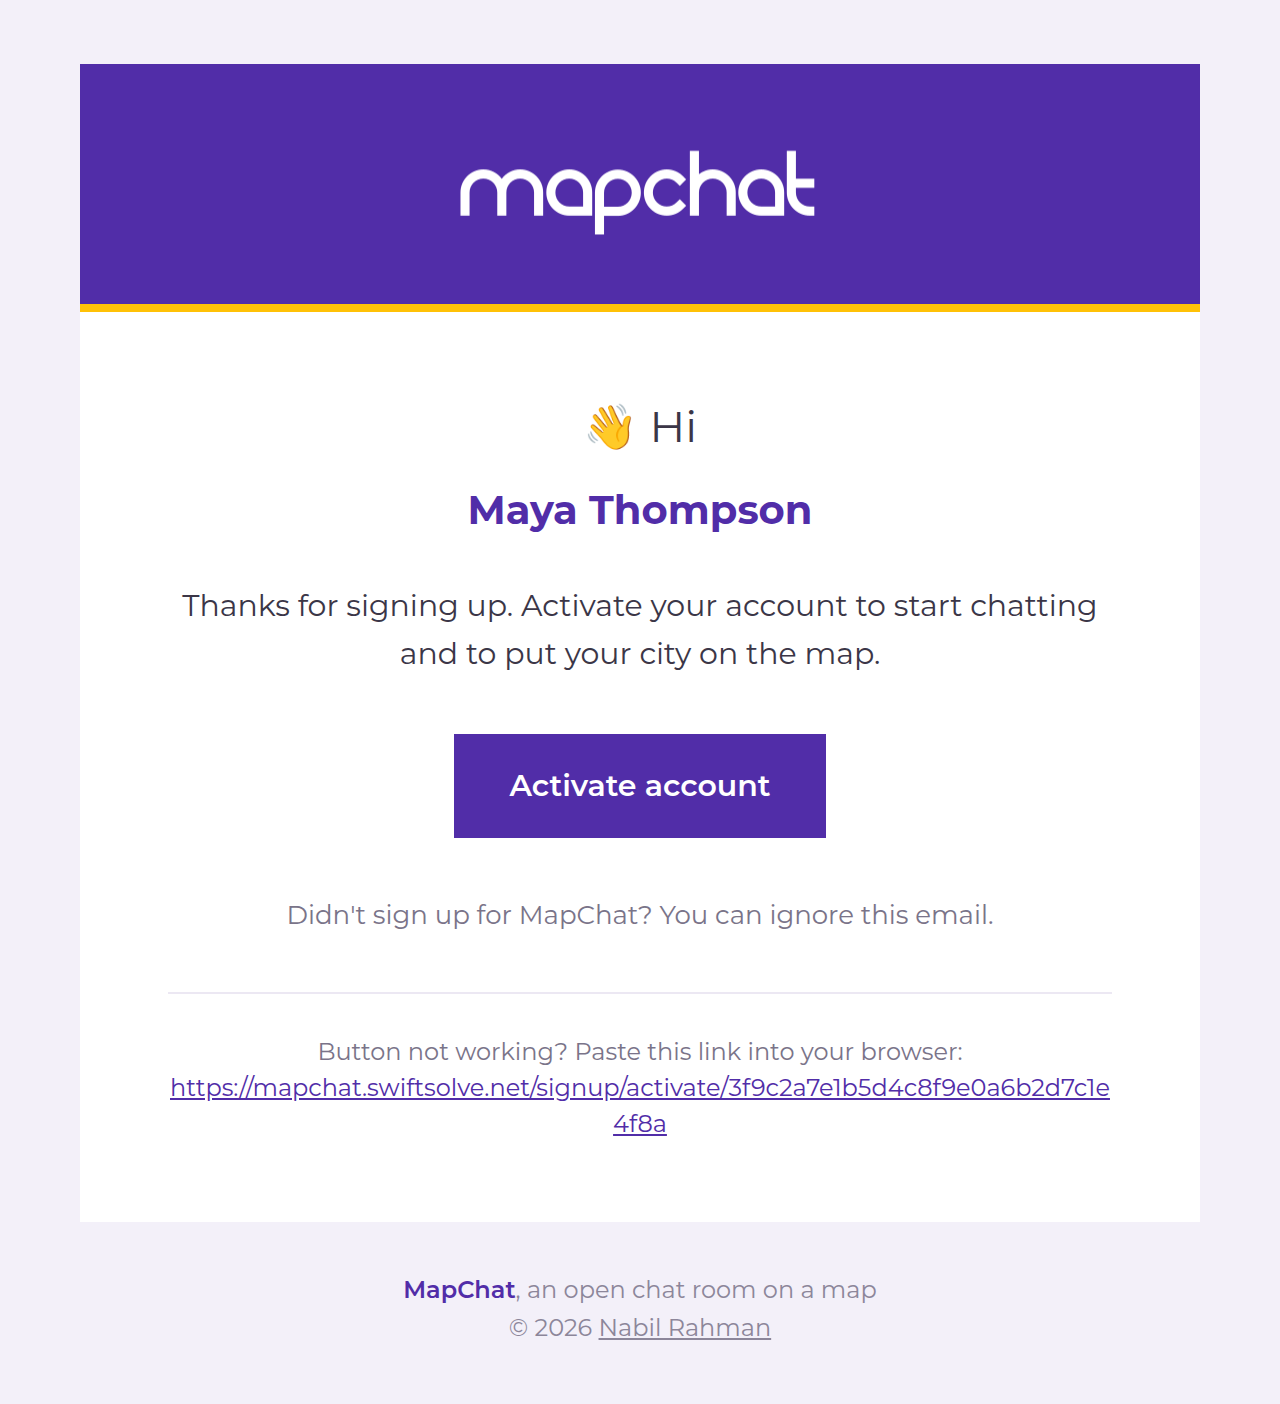
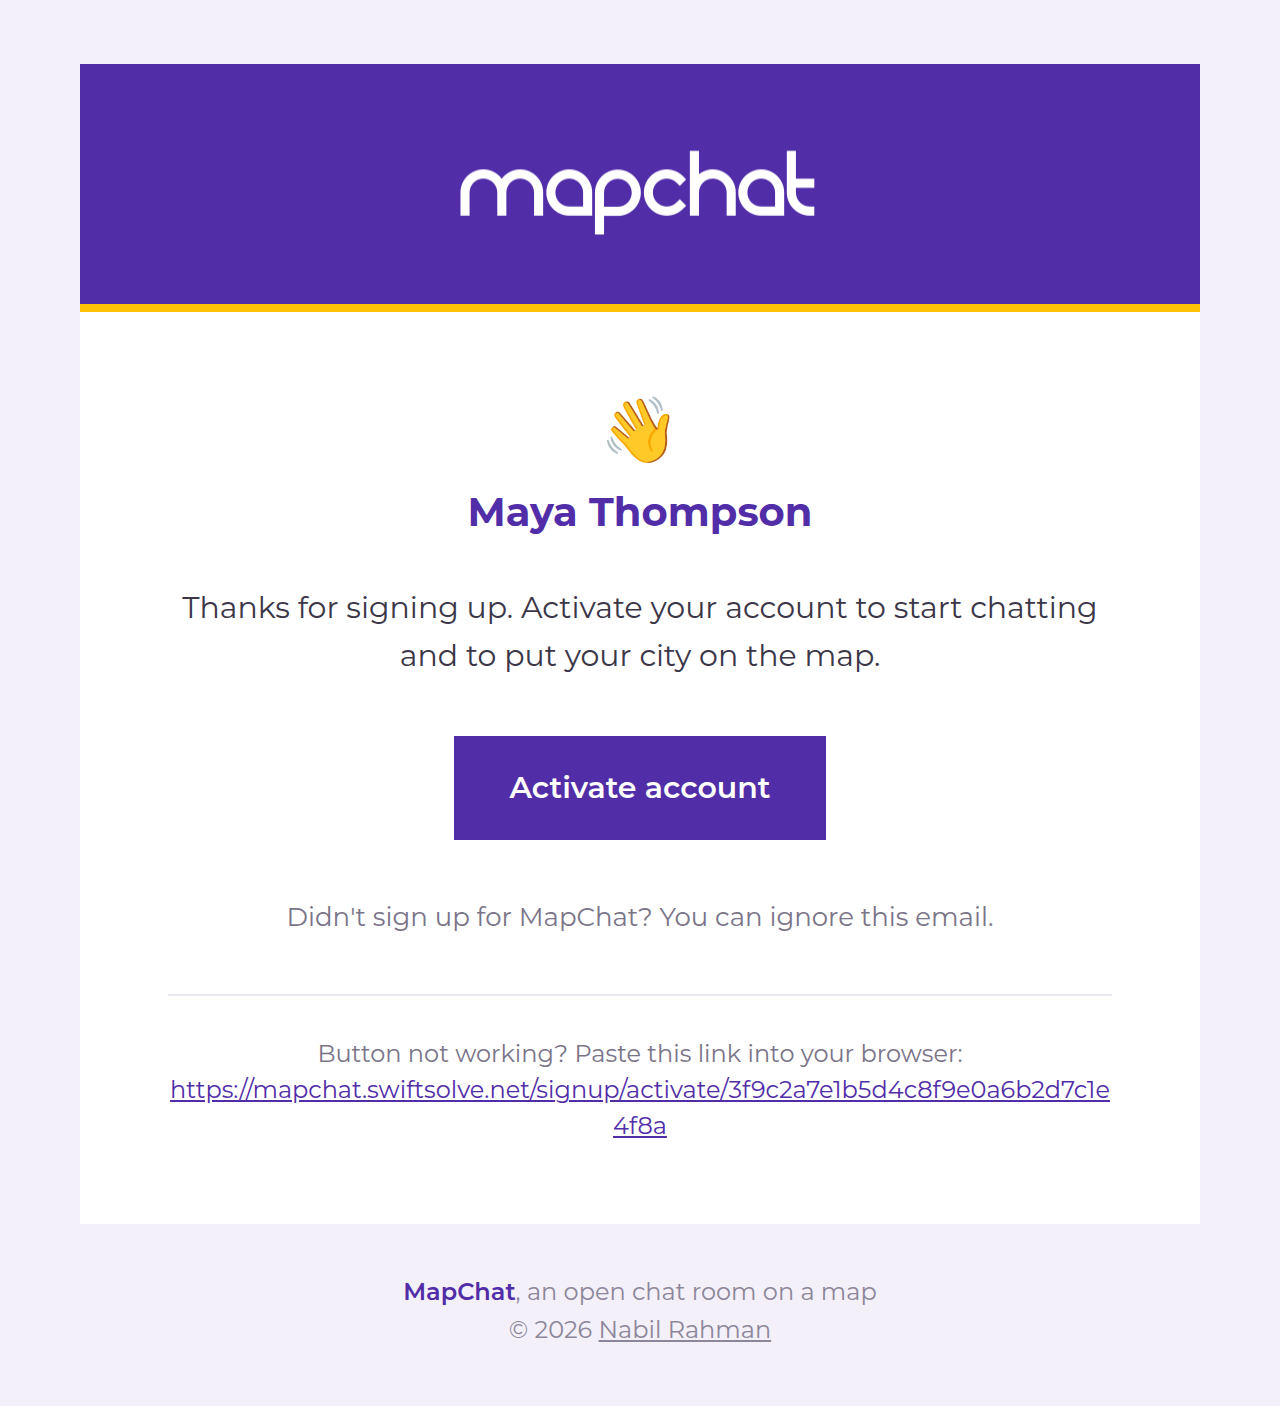
Greet with the wave alone, above the name

diff --git a/App/Views/Password/reset_email.html b/App/Views/Password/reset_email.html
@@ -5,7 +5,7 @@
 {% block preheader %}This link works for the next 2 hours.{% endblock %}
 
 {% block body %}
-<p style="margin: 0 0 8px; font-size: 22px;">👋 Hi</p>
+<p style="margin: 0 0 6px; font-size: 32px; line-height: 1.2;" aria-label="Hi">👋</p>
 <p style="margin: 0 0 20px;"><strong style="color: #512da8; font-size: 20px;">{{ name }}</strong></p>
 <p style="margin: 0;">Someone asked to reset the password for your MapChat account. Choose a new one with the button below. The link works for 2 hours.</p>
 

diff --git a/App/Views/Signup/activation_email.html b/App/Views/Signup/activation_email.html
@@ -5,7 +5,7 @@
 {% block preheader %}One click and you're in the room.{% endblock %}
 
 {% block body %}
-<p style="margin: 0 0 8px; font-size: 22px;">👋 Hi</p>
+<p style="margin: 0 0 6px; font-size: 32px; line-height: 1.2;" aria-label="Hi">👋</p>
 <p style="margin: 0 0 20px;"><strong style="color: #512da8; font-size: 20px;">{{ name }}</strong></p>
 <p style="margin: 0;">Thanks for signing up. Activate your account to start chatting and to put your city on the map.</p>
 
